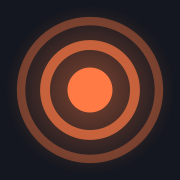
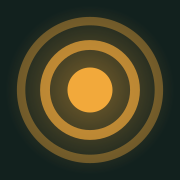
Changed Theme

Changed region(s): [[0.0833, 0.0833, 0.9167, 0.9167], [0.2222, 0.2222, 0.7778, 0.7778], [0.3611, 0.3611, 0.6389, 0.6389]]

diff --git a/static/index.html b/static/index.html
@@ -5,7 +5,7 @@
 <meta name="viewport" content="width=device-width, initial-scale=1">
 <title>TalkToMe: meet new people close to home</title>
 <meta name="description" content="Video and text chat with someone new, inside the distance you choose. No account, no profile. Free, in your browser.">
-<meta name="theme-color" content="#161B45">
+<meta name="theme-color" content="#12211E">
 <link rel="canonical" href="https://talktome.cybernetic.co.in/">
 
 <meta property="og:type" content="website">
@@ -26,18 +26,18 @@
 
 <style>
   :root {
-    --dusk: #161B45;
-    --dusk-2: #1F2659;
-    --dusk-line: #353E80;
-    --mist: #EDEFFB;
-    --ink: #131737;
-    --ink-soft: #454C7A;
-    --ember: #FF7A45;
-    --on-ember: #1C0F08;
-    --peri: #8C9BFF;
-    --paper: #F4F5FF;
-    --muted: #AEB4DC;
-    --num: #C9420E;
+    --dusk: #12211E;
+    --dusk-2: #1B322D;
+    --dusk-line: #2E4A43;
+    --mist: #EAF2ED;
+    --ink: #11201C;
+    --ink-soft: #3E5850;
+    --ember: #F2A93B;
+    --on-ember: #241505;
+    --peri: #6FE1C4;
+    --paper: #F1F7F2;
+    --muted: #9CC2B7;
+    --num: #A8570F;
   }
   * { box-sizing: border-box; }
   html { scroll-behavior: smooth; }
@@ -61,7 +61,7 @@
   .skip { position: absolute; left: -9999px; top: 8px; z-index: 20; background: #fff; color: #000; padding: 10px 16px; border-radius: 8px; }
   .skip:focus { left: 12px; }
 
-  .wrap { max-width: 1160px; margin-inline: auto; padding-inline: clamp(20px, 5vw, 48px); }
+  .wrap { max-width: 1400px; margin-inline: auto; padding-inline: clamp(20px, 5vw, 64px); }
 
   .btn {
     display: inline-flex; align-items: center; justify-content: center;
@@ -70,7 +70,7 @@
     font: inherit; font-weight: 600; font-size: 17px; text-decoration: none; cursor: pointer;
     transition: transform .15s ease, background-color .15s ease;
   }
-  .btn:hover { background: #FF8D5F; }
+  .btn:hover { background: #FFBD5C; }
   .btn:active { transform: scale(.97); }
   .btn-sm { min-height: 42px; padding: 0 20px; font-size: 16px; }
   .btn-lg { min-height: 58px; padding: 0 38px; font-size: 19px; }
@@ -88,7 +88,11 @@
   }
 
   /* hero */
-  .hero { padding-block: clamp(24px, 5vw, 64px) clamp(56px, 9vw, 120px); }
+  .hero { position: relative; overflow: hidden; padding-block: clamp(24px, 5vw, 64px) clamp(56px, 9vw, 120px); }
+  .section-bg { position: absolute; inset: 0; z-index: 0; pointer-events: none; overflow: hidden; }
+  .section-bg img { position: absolute; top: 50%; left: 50%; width: max(1500px, 130vw); height: max(1500px, 130vw); transform: translate(-50%, -50%); object-fit: cover; opacity: .4; }
+  .hero .section-bg { mask-image: linear-gradient(to bottom, black 0%, black 55%, transparent 96%); -webkit-mask-image: linear-gradient(to bottom, black 0%, black 55%, transparent 96%); }
+  .hero > .wrap { position: relative; z-index: 1; }
   .hero-grid { display: grid; grid-template-columns: minmax(0, 1.05fr) minmax(0, .95fr); gap: clamp(32px, 6vw, 88px); align-items: center; }
   .hero h1 { font-size: clamp(46px, 7.4vw, 100px); font-weight: 800; line-height: .95; letter-spacing: -0.04em; }
   .lede { margin: 28px 0 36px; max-width: 44ch; text-wrap: balance; font-size: clamp(18px, 2vw, 21px); color: var(--muted); }
@@ -102,7 +106,7 @@
   .hero-visual { display: flex; flex-direction: column; align-items: center; gap: 22px; }
   .map {
     --d: 26%;
-    position: relative; width: min(100%, 540px); aspect-ratio: 1; overflow: hidden; border-radius: 50%;
+    position: relative; width: min(100%, 600px); aspect-ratio: 1; overflow: hidden; border-radius: 50%;
     background: radial-gradient(circle at 50% 50%, #283070 0%, #1D2454 60%, #171C48 100%);
     box-shadow: 0 0 0 1px var(--dusk-line);
   }
@@ -110,7 +114,7 @@
   .ring {
     position: absolute; left: 50%; top: 50%; width: var(--d); height: var(--d); transform: translate(-50%, -50%);
     border: 2px solid var(--ember); border-radius: 50%;
-    background: radial-gradient(circle, rgba(255,122,69,.16), rgba(255,122,69,.05) 72%);
+    background: radial-gradient(circle, rgba(242,169,59,.16), rgba(242,169,59,.05) 72%);
     transition: width .7s cubic-bezier(.3,.7,.2,1), height .7s cubic-bezier(.3,.7,.2,1);
   }
   .ring-label {
@@ -119,12 +123,12 @@
     font-size: 14px; font-weight: 600; white-space: nowrap;
     transition: top .7s cubic-bezier(.3,.7,.2,1);
   }
-  .you { position: absolute; left: 50%; top: 50%; width: 18px; height: 18px; margin: -9px 0 0 -9px; border-radius: 50%; background: var(--ember); box-shadow: 0 0 0 6px rgba(255,122,69,.28); }
+  .you { position: absolute; left: 50%; top: 50%; width: 18px; height: 18px; margin: -9px 0 0 -9px; border-radius: 50%; background: var(--ember); box-shadow: 0 0 0 6px rgba(242,169,59,.28); }
   .you::after { content: ""; position: absolute; inset: -6px; border: 2px solid var(--ember); border-radius: 50%; animation: ping 2.8s ease-out infinite; }
   @keyframes ping { from { transform: scale(1); opacity: .7; } to { transform: scale(4.4); opacity: 0; } }
   .you-tag { position: absolute; left: calc(50% + 18px); top: calc(50% + 8px); font-size: 14px; font-weight: 600; }
   .dot { position: absolute; border-radius: 50%; background: var(--peri); opacity: .3; transform: scale(.8); transition: opacity .45s ease, transform .45s ease, box-shadow .45s ease; }
-  .dot.in { opacity: 1; transform: scale(1); box-shadow: 0 0 0 5px rgba(140,155,255,.24); }
+  .dot.in { opacity: 1; transform: scale(1); box-shadow: 0 0 0 5px rgba(111,225,196,.24); }
 
   .range { display: inline-flex; padding: 5px; border-radius: 999px; background: var(--dusk-2); box-shadow: 0 0 0 1px var(--dusk-line); }
   .range button { min-height: 44px; padding: 0 20px; border: 0; border-radius: 999px; background: none; color: var(--muted); font: inherit; font-size: 16px; font-weight: 600; cursor: pointer; transition: background-color .2s ease, color .2s ease; }
@@ -152,14 +156,14 @@
     .step > p { max-width: 52ch; }
   }
 
-  .ui { margin-top: 22px; padding: 16px; border-radius: 22px; background: var(--dusk); color: var(--paper); box-shadow: 0 22px 40px -26px rgba(22,27,69,.7); font-size: 15px; line-height: 1.4; }
+  .ui { margin-top: 22px; padding: 16px; border-radius: 22px; background: var(--dusk); color: var(--paper); box-shadow: 0 22px 40px -26px rgba(10,20,18,.7); font-size: 15px; line-height: 1.4; }
   .ui-field { display: flex; align-items: center; gap: 10px; padding: 11px 14px; border-radius: 10px; background: var(--dusk-2); box-shadow: 0 0 0 1px var(--dusk-line); }
   .ui-field span { color: var(--muted); }
   .ui-field b { margin-left: auto; font-weight: 600; }
   .ui-field i { width: 8px; height: 8px; border-right: 2px solid var(--muted); border-bottom: 2px solid var(--muted); transform: rotate(45deg) translateY(-2px); }
-  .ui-list { list-style: none; margin: 8px 0 0; padding: 6px; border-radius: 12px; background: #262E68; }
+  .ui-list { list-style: none; margin: 8px 0 0; padding: 6px; border-radius: 12px; background: #213B34; }
   .ui-list li { padding: 8px 12px; border-radius: 8px; color: var(--muted); }
-  .ui-list li.sel { background: rgba(255,122,69,.18); color: var(--paper); font-weight: 600; }
+  .ui-list li.sel { background: rgba(242,169,59,.18); color: var(--paper); font-weight: 600; }
 
   .ui-search { display: flex; flex-direction: column; align-items: center; gap: 14px; padding-block: 28px; }
   .mini-radar { position: relative; width: 84px; height: 84px; display: grid; place-items: center; }
@@ -175,16 +179,18 @@
   .pill { padding: 5px 14px; border-radius: 999px; font-size: 13px; font-weight: 600; }
   .pill-skip { background: var(--ember); color: var(--on-ember); }
   .pill-stop { box-shadow: inset 0 0 0 1px var(--dusk-line); }
-  .ui-tile { position: relative; aspect-ratio: 4 / 3; overflow: hidden; border-radius: 12px; background: linear-gradient(160deg, #4048A0, #232A66); }
+  .ui-tile { position: relative; aspect-ratio: 4 / 3; overflow: hidden; border-radius: 12px; background: linear-gradient(160deg, #2F5850, #142823); }
   .ui-tile > svg { position: absolute; left: 50%; bottom: -6%; width: 62%; transform: translateX(-50%); fill: rgba(255,255,255,.16); }
-  .ui-pip { position: absolute; right: 8px; bottom: 8px; width: 34%; aspect-ratio: 4 / 3; overflow: hidden; border-radius: 8px; background: linear-gradient(160deg, #FFA078, #E8562A); box-shadow: 0 0 0 2px var(--dusk); }
-  .ui-pip svg { position: absolute; left: 50%; bottom: -10%; width: 72%; transform: translateX(-50%); fill: rgba(28,15,8,.26); }
+  .ui-pip { position: absolute; right: 8px; bottom: 8px; width: 34%; aspect-ratio: 4 / 3; overflow: hidden; border-radius: 8px; background: linear-gradient(160deg, #FFC77A, #D9800F); box-shadow: 0 0 0 2px var(--dusk); }
+  .ui-pip svg { position: absolute; left: 50%; bottom: -10%; width: 72%; transform: translateX(-50%); fill: rgba(36,21,5,.26); }
   .ui-chat { display: grid; gap: 6px; margin-top: 12px; }
   .ui-chat p { max-width: 82%; padding: 7px 12px; border-radius: 14px; }
   .ui-chat .them { background: var(--dusk-2); border-bottom-left-radius: 4px; }
-  .ui-chat .me { justify-self: end; background: rgba(255,122,69,.2); border-bottom-right-radius: 4px; }
+  .ui-chat .me { justify-self: end; background: rgba(242,169,59,.2); border-bottom-right-radius: 4px; }
 
   /* dark bands */
+  #why { position: relative; overflow: hidden; }
+  #why > .wrap { position: relative; z-index: 1; }
   .why-grid { display: grid; grid-template-columns: minmax(0, 5fr) minmax(0, 7fr); gap: clamp(32px, 6vw, 96px); align-items: start; }
   .why-grid > div:first-child { position: sticky; top: 40px; }
   .dark-lede { margin-top: 20px; max-width: 34ch; color: var(--muted); }
@@ -214,8 +220,8 @@
   /* faq */
   .faq-grid { display: grid; grid-template-columns: minmax(0, 5fr) minmax(0, 7fr); gap: clamp(32px, 6vw, 96px); align-items: start; }
   .faq-grid > div:first-child { position: sticky; top: 40px; }
-  details { border-top: 1px solid #C3C9EA; }
-  details:last-child { border-bottom: 1px solid #C3C9EA; }
+  details { border-top: 1px solid #C9DAD2; }
+  details:last-child { border-bottom: 1px solid #C9DAD2; }
   summary { display: flex; justify-content: space-between; gap: 24px; padding: 22px 0; cursor: pointer; list-style: none; font-size: 21px; font-weight: 600; letter-spacing: -0.015em; line-height: 1.3; }
   summary::-webkit-details-marker { display: none; }
   summary::after {
@@ -235,7 +241,7 @@
   .cta-inner { display: grid; grid-template-columns: minmax(0, 1fr) auto; gap: 32px 64px; align-items: end; }
   .cta h2 { font-size: clamp(42px, 7.4vw, 96px); font-weight: 800; letter-spacing: -0.04em; line-height: .95; color: var(--on-ember); }
   .cta .btn { background: var(--dusk); color: var(--paper); }
-  .cta .btn:hover { background: #262E70; }
+  .cta .btn:hover { background: #24413B; }
   .cta small { display: block; margin-top: 16px; max-width: 28ch; font-size: 16px; }
   @media (max-width: 760px) { .cta-inner { grid-template-columns: 1fr; } }
 
@@ -262,7 +268,7 @@
   <div class="wrap">
     <div class="nav">
       <a class="brand" href="/" aria-label="TalkToMe home">
-        <svg viewBox="0 0 64 64" aria-hidden="true"><circle cx="32" cy="32" r="26" fill="none" stroke="#FF7A45" stroke-opacity=".4" stroke-width="4"/><circle cx="32" cy="32" r="16" fill="none" stroke="#FF7A45" stroke-opacity=".75" stroke-width="4.5"/><circle cx="32" cy="32" r="8" fill="#FF7A45"/></svg>
+        <svg viewBox="0 0 64 64" aria-hidden="true"><circle cx="32" cy="32" r="26" fill="none" stroke="#F2A93B" stroke-opacity=".4" stroke-width="4"/><circle cx="32" cy="32" r="16" fill="none" stroke="#F2A93B" stroke-opacity=".75" stroke-width="4.5"/><circle cx="32" cy="32" r="8" fill="#F2A93B"/></svg>
         TalkToMe
       </a>
       <nav class="nav-links" aria-label="Main">
@@ -277,6 +283,7 @@
 
 <main id="main">
   <section class="hero">
+    <div class="section-bg" aria-hidden="true"><img src="/topo.svg" alt=""></div>
     <div class="wrap hero-grid">
       <div>
         <h1>Meet someone new, close to home.</h1>
@@ -352,6 +359,7 @@
   </section>
 
   <section class="band" id="why">
+    <div class="section-bg" aria-hidden="true"><img src="/topo.svg" alt="" style="transform:translate(-50%,-50%) scaleX(-1)"></div>
     <div class="wrap">
       <div class="why-grid">
         <div>
@@ -459,7 +467,7 @@
 <footer>
   <div class="wrap foot">
     <a class="brand" href="/" aria-label="TalkToMe home">
-      <svg viewBox="0 0 64 64" aria-hidden="true"><circle cx="32" cy="32" r="26" fill="none" stroke="#FF7A45" stroke-opacity=".4" stroke-width="4"/><circle cx="32" cy="32" r="16" fill="none" stroke="#FF7A45" stroke-opacity=".75" stroke-width="4.5"/><circle cx="32" cy="32" r="8" fill="#FF7A45"/></svg>
+      <svg viewBox="0 0 64 64" aria-hidden="true"><circle cx="32" cy="32" r="26" fill="none" stroke="#F2A93B" stroke-opacity=".4" stroke-width="4"/><circle cx="32" cy="32" r="16" fill="none" stroke="#F2A93B" stroke-opacity=".75" stroke-width="4.5"/><circle cx="32" cy="32" r="8" fill="#F2A93B"/></svg>
       TalkToMe
     </a>
     <nav aria-label="Footer">

diff --git a/static/talk/index.html b/static/talk/index.html
@@ -7,18 +7,18 @@
 <link rel="icon" href="/favicon.ico" sizes="32x32">
 <link rel="icon" href="/favicon.svg" type="image/svg+xml">
 <link rel="apple-touch-icon" href="/apple-touch-icon.png">
-<meta name="theme-color" content="#161B45">
+<meta name="theme-color" content="#12211E">
 <link rel="preload" href="/fonts/bricolage-grotesque-latin-opsz-normal.woff2" as="font" type="font/woff2" crossorigin>
 <link rel="stylesheet" href="/fonts/fonts.css">
 <style>
   :root {
-    --ink: #161B45;
-    --panel: #1F2659;
-    --panel-line: #353E80;
-    --paper: #F4F5FF;
-    --ember: #FF7A45;
-    --ember-dim: #7A3E23;
-    --muted: #AEB4DC;
+    --ink: #12211E;
+    --panel: #1B322D;
+    --panel-line: #2E4A43;
+    --paper: #F1F7F2;
+    --ember: #F2A93B;
+    --ember-dim: #8A5E1C;
+    --muted: #9CC2B7;
   }
   * { box-sizing: border-box; }
   html, body { margin: 0; padding: 0; }
@@ -39,8 +39,8 @@
   .btn { border: none; cursor: pointer; font-family: inherit; font-weight: 500; border-radius: 999px; transition: transform .15s ease, background .15s ease, opacity .2s ease; }
   .btn:active { transform: scale(0.97); }
   .btn:focus-visible { outline: 2px solid var(--ember); outline-offset: 3px; }
-  .btn-primary { background: var(--ember); color: #241206; font-size: 15px; padding: 13px 30px; }
-  .btn-primary:hover { background: #ff8c5f; }
+  .btn-primary { background: var(--ember); color: #241505; font-size: 15px; padding: 13px 30px; }
+  .btn-primary:hover { background: #FFBD5C; }
   .btn-ghost { background: transparent; border: 1px solid var(--panel-line); color: var(--paper); font-size: 13px; padding: 8px 18px; }
   .btn-sm { font-size: 13px; padding: 8px 18px; }
   .btn:disabled { opacity: 0; pointer-events: none; }
@@ -80,14 +80,14 @@
   .custom-radius[hidden] { display: none; }
   input[type=number] { width: 104px; font-variant-numeric: tabular-nums; }
   .age-note { margin: 16px 0 0; font-size: 14px; color: var(--muted); }
-  .start-error { margin: 18px auto 0; max-width: 420px; padding: 12px 16px; font-size: 14px; line-height: 1.5; text-align: left; color: #ffc9b3; background: rgba(255,122,69,.10); border: 1px solid rgba(255,122,69,.40); border-radius: 12px; }
+  .start-error { margin: 18px auto 0; max-width: 420px; padding: 12px 16px; font-size: 14px; line-height: 1.5; text-align: left; color: #F6D9A6; background: rgba(242,169,59,.10); border: 1px solid rgba(242,169,59,.40); border-radius: 12px; }
 
   .call { display: none; }
   body.active .call { display: block; }
   body.active .intro { display: none; }
 
-  .call-stage { position: relative; width: 100%; aspect-ratio: 16 / 10; max-height: 560px; background: #0E1236; border: 1px solid var(--panel-line); border-radius: 10px; overflow: hidden; margin-bottom: 16px; }
-  .video-frame { position: absolute; overflow: hidden; background: #0E1236; user-select: none; }
+  .call-stage { position: relative; width: 100%; aspect-ratio: 16 / 10; max-height: 560px; background: #0A1614; border: 1px solid var(--panel-line); border-radius: 10px; overflow: hidden; margin-bottom: 16px; }
+  .video-frame { position: absolute; overflow: hidden; background: #0A1614; user-select: none; }
   .video-frame video { width: 100%; height: 100%; object-fit: cover; display: block; -webkit-user-drag: none; }
   .video-frame.big { inset: 0; z-index: 1; border-radius: 10px; }
   .video-frame.pip {
@@ -104,7 +104,7 @@
   .video-frame.pip:active { cursor: grabbing; }
   .video-label { position: absolute; left: 10px; bottom: 8px; font-size: 12px; background: rgba(0,0,0,.45); padding: 3px 9px; border-radius: 999px; z-index: 3; pointer-events: none; }
 
-  .radar-overlay { position: absolute; inset: 0; display: flex; flex-direction: column; align-items: center; justify-content: center; gap: 14px; background: rgba(14,18,54,.88); }
+  .radar-overlay { position: absolute; inset: 0; display: flex; flex-direction: column; align-items: center; justify-content: center; gap: 14px; background: rgba(10,22,20,.88); }
   body.matched .radar-overlay { display: none; }
   .radar { position: relative; width: 96px; height: 96px; display: flex; align-items: center; justify-content: center; }
   .radar .dot { width: 12px; height: 12px; border-radius: 50%; background: var(--ember); }
@@ -137,7 +137,7 @@
 </style>
 </head>
 <body class="idle">
-<div class="app">
+<main class="app">
 
   <div class="topbar">
     <a class="wordmark" href="/" aria-label="TalkToMe home">TalkToMe</a>
@@ -202,7 +202,7 @@
     </div>
   </section>
 
-</div>
+</main>
 
 <script>
 const statusEl = document.getElementById('status');
